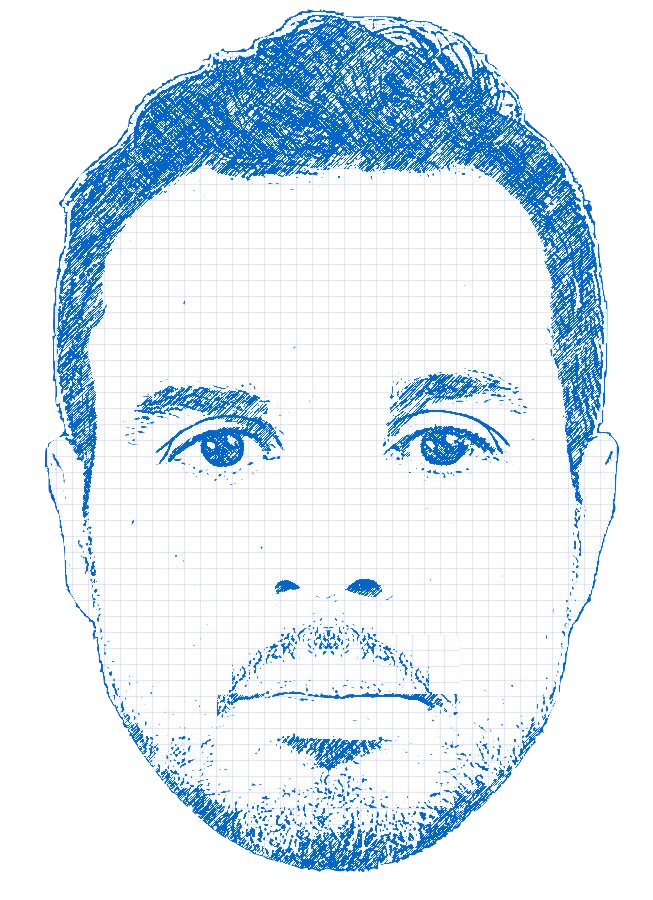
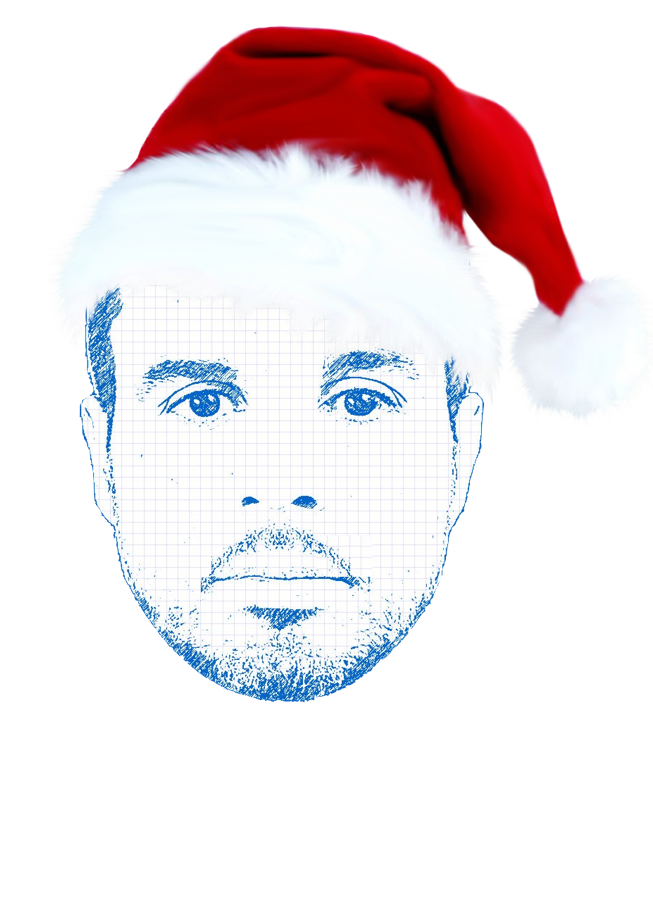
special gift for navidad 2020 - traffic test from social media accounts

Changed region(s): [[0.0613, 0.0, 0.9495, 0.9956]]

diff --git a/src/styles/index.css b/src/styles/index.css
@@ -13,7 +13,7 @@
 /* paypal button credits https://www.npmjs.com/package/gatsby-plugin-paypal */
 /* photo Photo by Ian Schneider on Unsplash https://unsplash.com/photos/PAykYb-8Er8 */
 /* cd album image credits https://www.seekpng.com/idown/u2y3w7w7i1t4y3w7_graphic-instruments-guitar-design-flame-musical-clipart-flaming/ */
-
+/* https://www.freepik.es/vector-premium/linda-santa-claus-tipografia-ho-ho-ho_6038406.htm */
 /* fonts */
 @import url('https://fonts.googleapis.com/css?family=Lato|Poppins');
 
@@ -924,6 +924,86 @@ footer {
 /* end portfolio */
 
 /* Music page */
+/* special div for navidad */
+    .buttonSpeCont {
+        display: flex;
+        flex-direction: column;
+        width: 200px;
+        height: auto;
+        margin: 0 auto;
+    }
+    .btnSpecialDownload {
+        color: var(--var-color-whitish);
+        font-size: large;
+        background: #005DB6;
+        height: 40px;
+        border: none;
+        border-radius: 10px;
+    }
+    .btnSpecialDownload:hover{
+        cursor: pointer;
+        background-color: rgb(106, 178, 245);
+        color: var(--var-primary-color);
+    }
+    .specialCont {
+        display: flex;
+        flex-direction: column;
+        width: 70%;
+        height: auto;
+        margin: 0 auto;
+        border-radius: 10px;
+        /* background: rgba(0, 94, 182, 0.12); */
+    }
+    .specialDiv {
+        display: flex;
+        flex-direction: column;
+        justify-content: center;
+        align-items: center;
+        width: 100%;
+        border-radius: 10px;
+        background: rgba(118, 144, 168, 0.452);
+        padding-top: 10px;
+        padding-bottom: 10px;
+    }
+    .textReadingSpecial {
+        margin-right: 20px;
+        margin-left: 20px;
+        font-size: initial;
+        font-family: var(--var-secondary-font);
+        color: rgb(184, 6, 6);
+        font-weight: bold;
+    }
+    .linkMore  a {
+        color:var(--var-yellowish-color);
+    }
+    .coloredFontTitle {
+        color: var(--var-primary-color);
+        font-style: var(--var-primary-font);
+    }
+    .coloredParagr {
+        color: var(--var-primary-color);
+        font-style: var(--var-secondary-font);
+    }
+    .santaImg {
+        border-radius: 10px;
+        box-shadow: 1px 1px 5px 1px var(--var-primary-color);
+        display: block;
+        width: 320px;
+        height: 320px;
+        margin: 0 auto;
+        margin-bottom: 20px;
+    }
+    .inputPassSpe {
+        color: var(--var-primary-color);
+        font-style: var(--var-secondary-font);
+        text-align: center;
+        height: 25px;
+        margin-top: 20px;
+        border-radius: 10px;
+        border: 1px solid var(--var-primary-color);
+        margin-bottom: 10px;
+    }
+/* end special div */
 .musicContainer {
     margin-top: var(--var-marginTop40Section);
     margin-bottom: var(--var-marginBottom60Section);
@@ -1577,6 +1657,11 @@ footer {
     }
 }
 @media only screen and (max-width: 616px) {
+    /* special div for navidad */
+    .specialCont {
+        width: 85%;
+    }
+    /* end special div */
     .expanded{
         height: 450px;
     }
@@ -1688,6 +1773,11 @@ footer {
     }
 }
 @media only screen and (max-width: 416px) {
+    /* special div for navidad */
+    .specialCont {
+        width: 95%;
+    }
+    /* end spcial div */
     nav {
         box-shadow: none;
     }

diff --git a/src/pages/specialPage.js b/src/pages/specialPage.js
@@ -1,0 +1,69 @@
+import React, { useState } from 'react';
+//components
+// translations
+import { useTranslation } from "react-i18next";
+//media-imgs
+import santaImg from '../imgMedia/santaImg.jpg';
+//+++++++++++++++++
+// testing npm install file-saver 
+import Filesaver from 'file-saver';
+// +++++++++++++++++
+
+// clave: navidad2020$$
+
+const Specialpage = () => {
+    const [password, setPassword] = useState('');
+
+    const { t } = useTranslation();
+
+    const handleDownload = () => {
+        // console.log('password field:',password);
+        if (password === "navidad2020$$"){
+            console.log(`${t('music.found')}`);
+            alert(`${t('music.found')}`);
+            try {
+                  const _path = "https://gitlab.com/saturnoman/portfolio/-/raw/master/static/DFiles/Digital-Album-Inspiration.zip";
+                  Filesaver.saveAs( _path, "Inspiración de Navidad");
+
+              } catch (err) {
+                  console.log('=====Fatal Error Downloading Files=====');
+                  console.log(err);
+                  console.log('Please contact me using the contact page');
+                  console.log('=====End Error Downloading Files=====');
+          
+            }
+        } else if (password !== "navidad2020$$") {
+            console.log(`${t('music.results')}`);
+            alert(`${t('music.results')}`);
+        }
+    }
+
+    return (
+        <div className="specialCont">
+            <div className="buttonSpeCont">
+                <input type="text" 
+                    onChange={(e) => setPassword(e.target.value)} 
+                    className="inputPassSpe" 
+                    autoFocus
+                    placeholder={t('music.input')}
+                />
+                <button className="btnSpecialDownload"
+                onClick={handleDownload}
+                >
+                    {t('music.download')}
+                </button>
+            </div>
+            <h1 className="coloredFontTitle">{t('music.titlespe')}</h1>
+            <p className="coloredParagr">{t('music.line1')}</p>
+            <h2 className="coloredFontTitle">{t('music.titlespe2')}</h2>
+            <p className="coloredParagr">{t('music.line2')}</p>
+            <h3 className="coloredFontTitle centered">{t('music.formatKey')}</h3>
+            <p className="coloredParagr">{t('music.line3')}</p>
+            <h2 className="coloredFontTitle">{t('music.titlespe3')}</h2>
+            <p className="coloredParagr">{t('music.line4')}</p>
+            <img src={santaImg} alt="hohoho feliz navidad" className="santaImg" />
+        </div>
+    )
+}
+
+export default Specialpage;

diff --git a/src/pages/Music.js b/src/pages/Music.js
@@ -12,6 +12,7 @@ import iconClose from '../imgMedia/icons8-multiply-64.png';
 import cdInspiration from '../imgMedia/Inspiration-caratula.jpg';
 import cdBhajananda from '../imgMedia/bhajananda-estar-en-ti.png';
 import cdParapeto from '../imgMedia/parapeto-largo-viaje-del-sol.png';
+import { Link } from 'gatsby';
 
 
 //props, lists & declarations
@@ -124,6 +125,12 @@ const Music = () => {
         <div className="musicContainer">
             <Head title={t('music.titlePage')}/>
             <div className="marginLeftRight">
+                {/* special sections for navidad */}
+                <div className="specialDiv">
+                    <p className="textReadingSpecial centered">{t('music.specialP')}</p>
+                    <Link to="/specialPage/" className="linkMore">{t('music.readmore')}</Link>
+                </div>
+                {/* end special section */}
                 <p className="textReading topMarginTextP spreadLineH justifyT margin20">{t('music.textMusic1')}</p>
                 {/* <p className="textReading2 spreadLineH justifyT">During many years the music have been one of my greatest passions. 
                     I had the opportunity to play among many great musicians. While living on Morocco I could enjoy performing latin music

diff --git a/src/pages/About.js b/src/pages/About.js
@@ -26,6 +26,7 @@ const About = (props) => {
         {'id':'3-textCarousel','title':t('about.sliderTitle4'),'list': [{'item':t('about.sliderItem4-1')},{'item': t('about.sliderItem4-2')}],'icon':true,'src':'./icons-imgs/fast.png','alt':t('about.altItem4')},
         {'id':'4-textCarousel','title':t('about.sliderTitle5'),'list': [{'item':'ReactJs, GatsbyJs y GraphQL'},{'item': 'Javascript & Typescript'},{'item': t('about.sliderItem5-1')}],'icon':false},
         {'id':'5-textCarousel','title':t('about.sliderTitle6'),'list': [{'item':t('about.sliderItem6-1')},{'item': t('about.sliderItem6-2')}],'icon':true,'src':'./icons-imgs/artistic.png','alt':t('about.altItem6')},
+        {'id':'51-textCarousel','title':t('music.slider'),'list': [{'item':t('music.slider1-1')}],'icon':false},
         {'id':'6-textCarousel','title':t('about.sliderTitle7'),'list': [{'item':t('about.sliderItem7-1')},{'item': t('about.sliderItem7-2')},{'item': t('about.sliderItem7-3')}],'icon':true,'src':'./icons-imgs/help.png','alt':t('about.altItem7')}
         // {'id':'0-textCarousel','title':'Mobile First Web Designs','list': [{'item':''},{'item': ''}]},
     ];

diff --git a/src/pages/Contact.js b/src/pages/Contact.js
@@ -133,7 +133,7 @@ class Contact extends React.Component {
         event.preventDefault();
       }
     
-      sendFeedback (variables) {
+      sendFeedback (variables) { 
         _emailJs.init(userId);
         _emailJs.send(
           serviceId, templateId,
